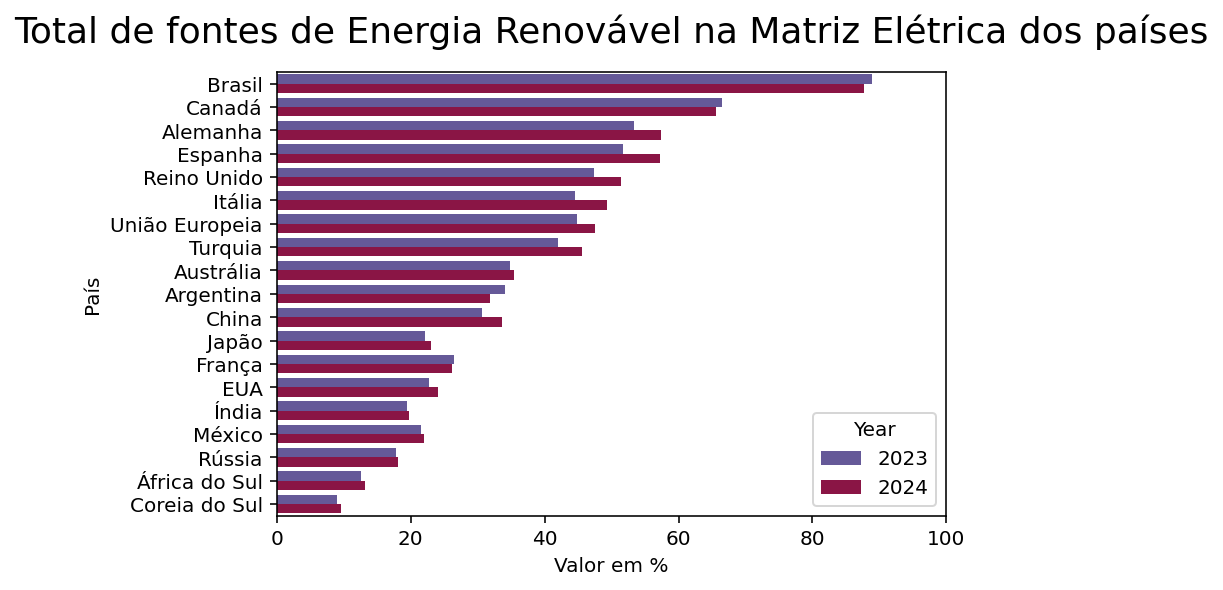
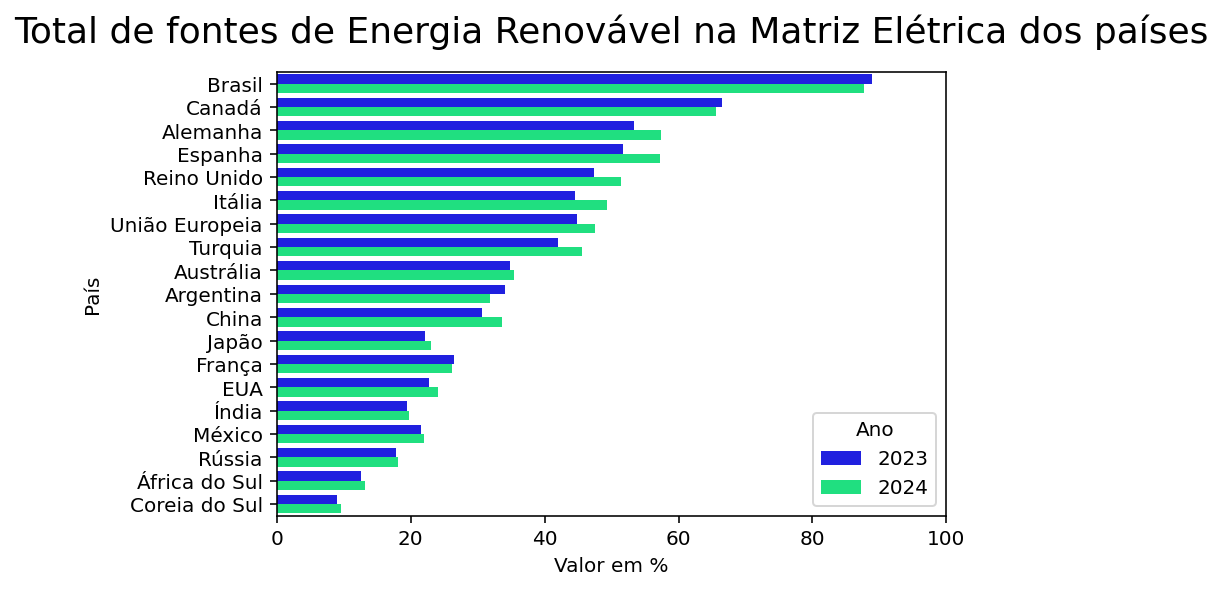
Add files via upload

Changed region(s): [[0.2175, 0.122, 0.7146, 0.8847], [0.6525, 0.7627, 0.7146, 0.8542], [0.6836, 0.7017, 0.7457, 0.7322]]

diff --git a/me graphs.py b/me graphs.py
@@ -95,13 +95,14 @@ new_df = pd.DataFrame({"País":countries,
 
 new_df.to_excel("Tabela 1.xlsx")
 
-ax = sns.barplot(final_1,x="Value",y="Area",hue="Year",palette="Spectral_r")
+ax = sns.barplot(final_1,x="Value",y="Area",hue="Year",palette="winter")
 ax.set_title(
     "Total de fontes de Energia Renovável na Matriz Elétrica dos países"
     , fontsize=18, pad=15)
 ax.set_xlabel("Valor em %")
 ax.set_xlim(right=100)
 ax.set_ylabel("País")
+ax.legend(title="Ano")
 plt.show()
 
 # now for the second graph (Poder360, if you are reading this: get on my level)
@@ -278,7 +279,7 @@ def graph(values_percent, category_names):
         np.linspace(0.15, 0.85, data.shape[1]))
 
     fig, ax = plt.subplots(figsize=(9.2, 5))
-    ax.set_title("Composição da Matriz Elétrica dos países", fontsize=18,
+    ax.set_title("Composição da Matriz Elétrica dos países (2024)", fontsize=18,
                  pad=30)
     ax.invert_yaxis()
     ax.xaxis.set_visible(True)
@@ -294,7 +295,7 @@ def graph(values_percent, category_names):
         r, g, b, _ = color
         text_color = 'white' if r * g * b < 0.5 else 'darkgrey'
         # ax.bar_label(rects, label_type='center', color=text_color)
-    ax.legend(ncols=len(category_names), bbox_to_anchor=(0, 1),
+    ax.legend(ncols=len(category_names), bbox_to_anchor=(-0.05, 1),
               loc='lower left', fontsize='small')
 
     return fig, ax
